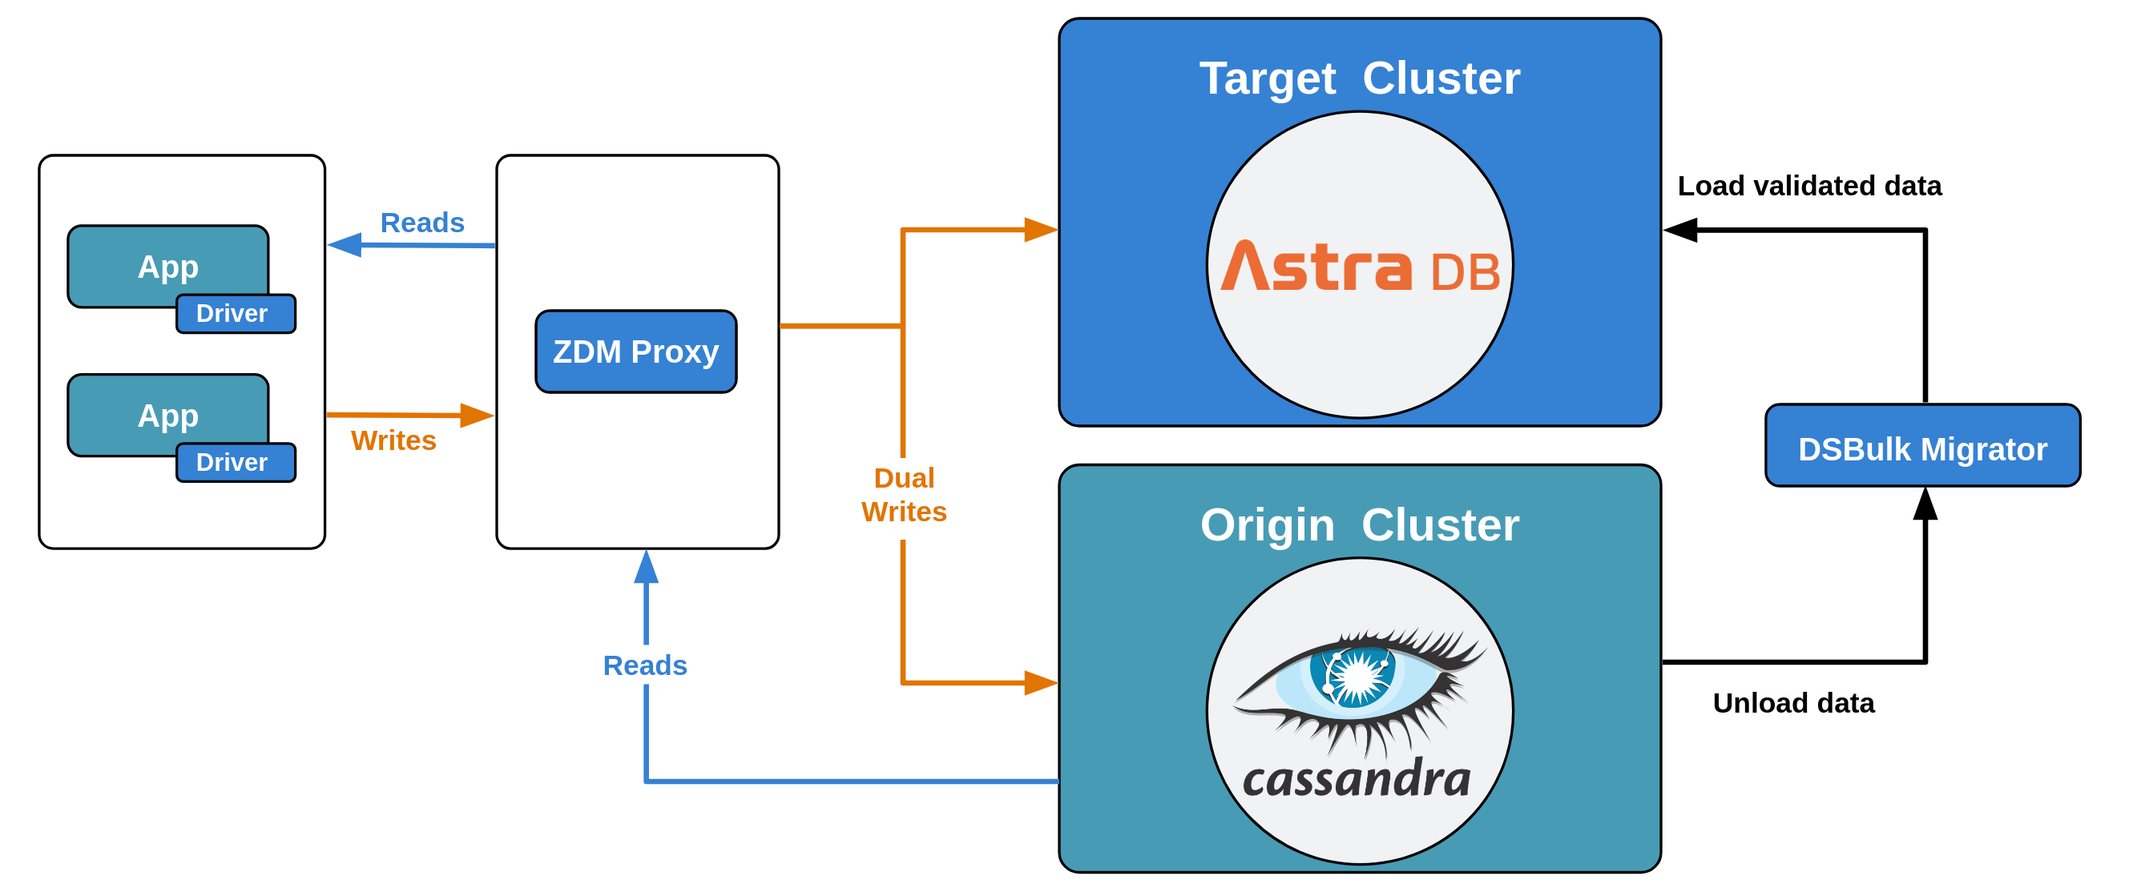
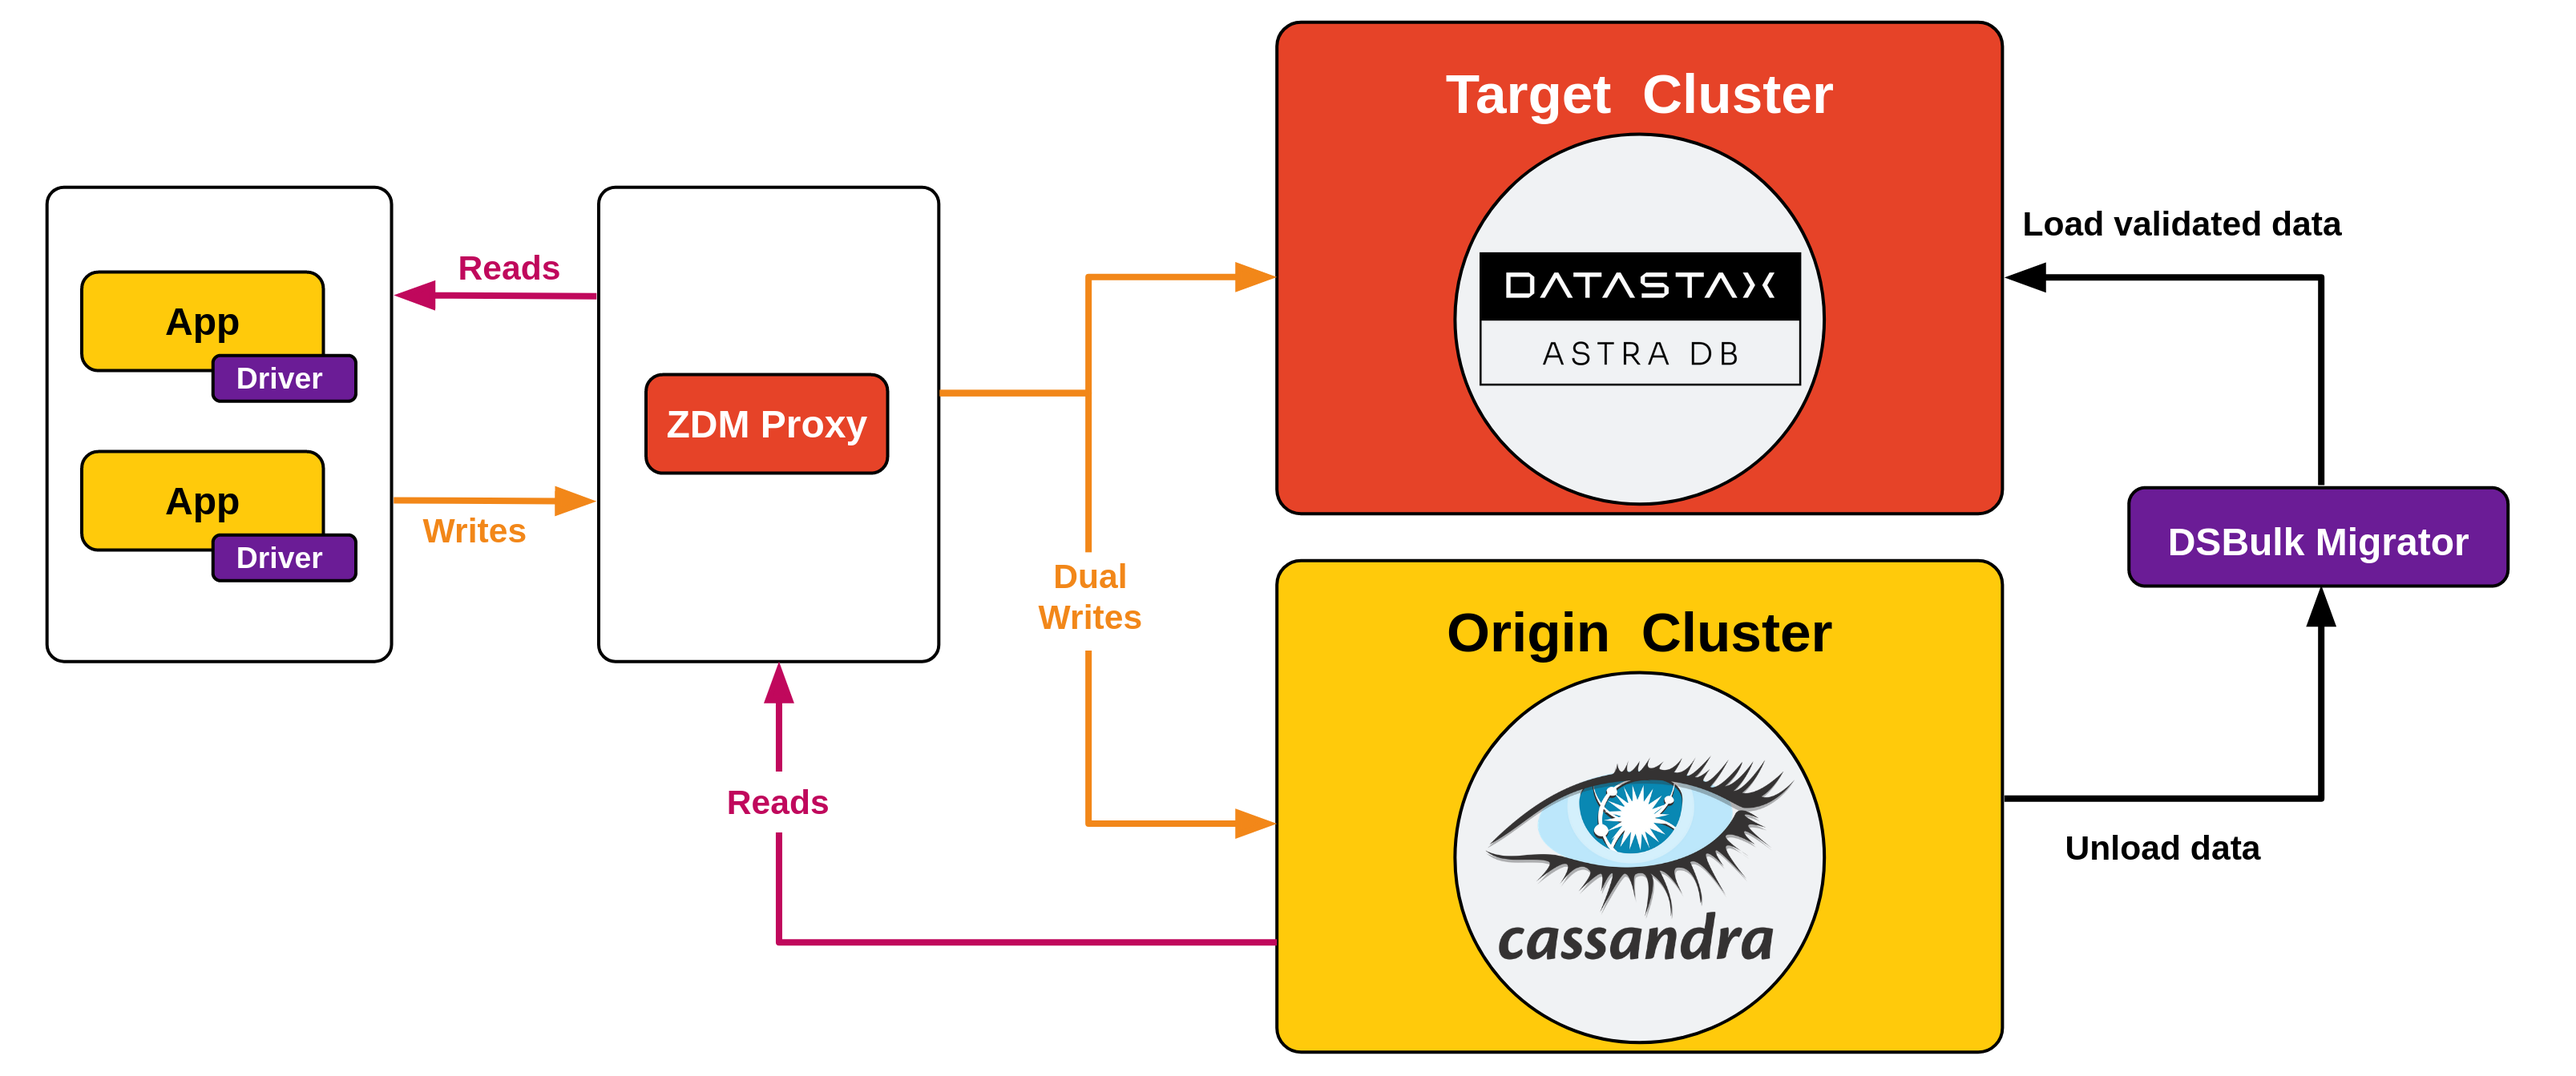
rebranding completed to all sketches

diff --git a/step1.md b/step1.md
@@ -116,7 +116,7 @@ done
 
 #### _🗒 You have a working application backed by a Cassandra cluster. Time to start preparing for a migration!_
 
-![Schema, phase 0](images/schema0_r.png)
+![Schema, phase 0a](images/schema0a_r.png)
 
 _🧭 You can choose whether to proceed to next step either using the Astra
 Web UI or using a CLI in the console (_except for the DB creation part, which is on the Astra UI anyway_).

diff --git a/step2_astra_cli.md b/step2_astra_cli.md
@@ -87,7 +87,7 @@ astra db cqlsh zdmtarget -f target_config/target_schema.cql
 
 #### _🗒 Your brand new database is created and has the right schema. Now you can start setting up the ZDM process, instructing it to use Astra DB as target._
 
-![Schema, phase 1a](images/schema1a_r.png)
+![Schema, phase 0b](images/schema0b_r.png)
 
 <!-- NAVIGATION -->
 <div id="navigation-bottom" class="navigation-bottom">

diff --git a/step2_astra_ui.md b/step2_astra_ui.md
@@ -55,7 +55,7 @@ CREATE TABLE IF NOT EXISTS zdmapp.user_status (
 
 #### _🗒 Your brand new database is created and has the right schema. Now you can start setting up the ZDM process, instructing it to use Astra DB as target._
 
-![Schema, phase 1a](images/schema1a_r.png)
+![Schema, phase 0b](images/schema0b_r.png)
 
 <!-- NAVIGATION -->
 <div id="navigation-bottom" class="navigation-bottom">

diff --git a/step6.md b/step6.md
@@ -129,7 +129,7 @@ To remedy this shortcoming, you must do something more.
 
 #### _🗒 The proxy is doing its job: in order to guarantee that the two databases have the same content, including historical data, it's time to run a migration process._
 
-![Schema, phase 1e](images/schema1e_r.png)
+![Schema, phase 1d](images/schema1d_r.png)
 
 #### 🔎 Monitoring suggestion
 
